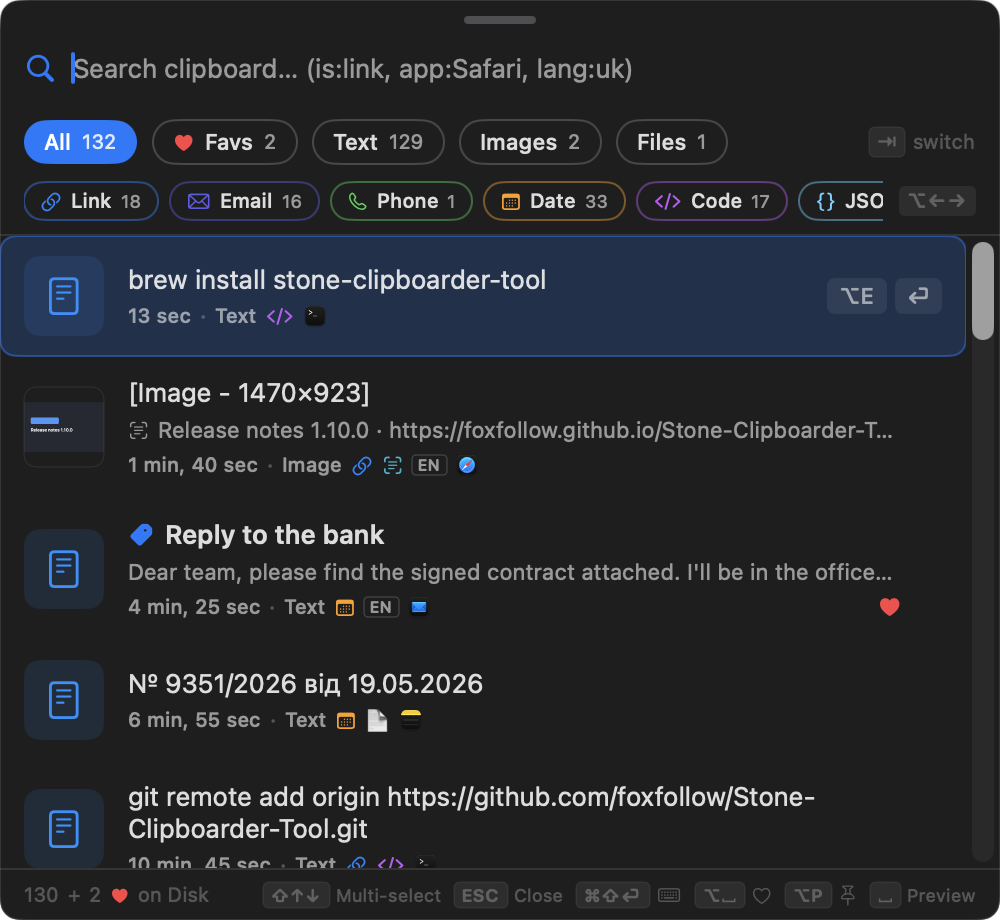
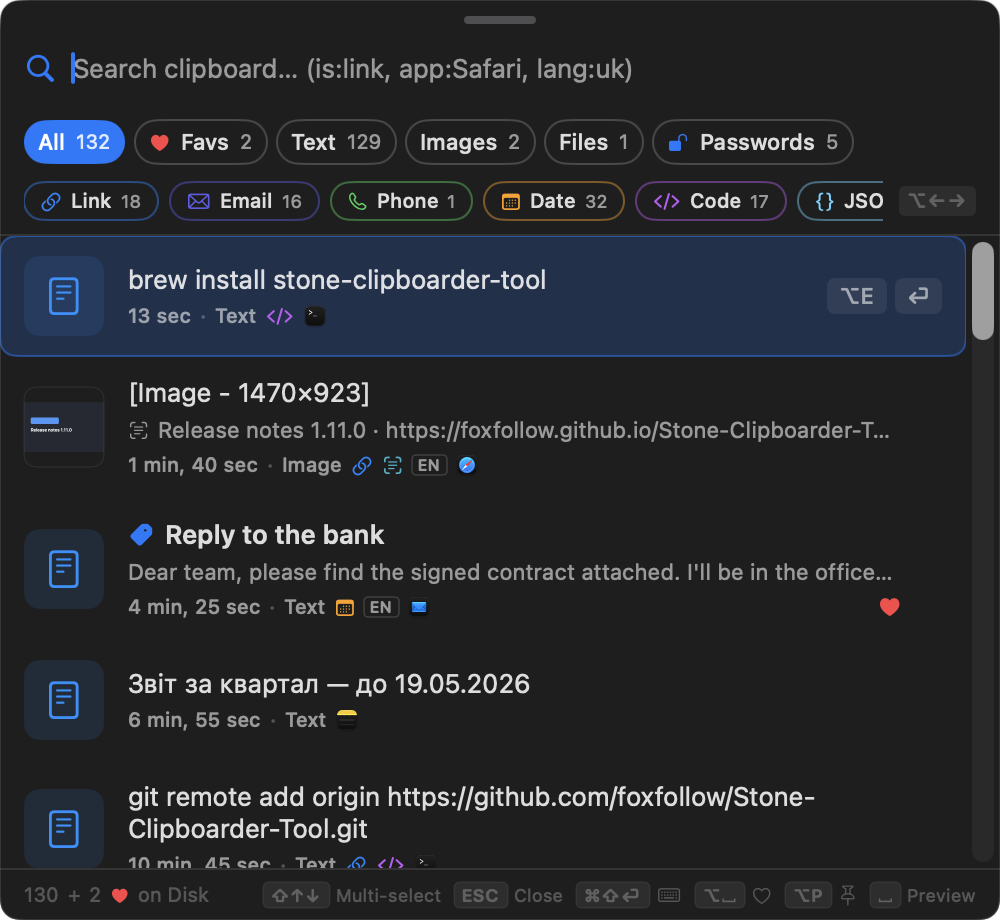
docs: new App Preview screenshots with a Passwords card
Re-rendered with `make screenshots` from the demo's made-up data: the
Quick Picker now shows the Passwords tab, Settings the grouped sidebar,
and a fifth card shows the Quick Picker on the Passwords tab with the
demo entries. The App Preview row is five cards wide on both landing
pages, and README's screenshot table gains the Passwords image.

Claude-Session: https://claude.ai/code/session_01Y3FT9tY4pPvpkEGiU6EVY5

diff --git a/docs/index-ua.html b/docs/index-ua.html
@@ -318,12 +318,12 @@
         </section>
 
         <!-- Screenshot Showcase -->
-        <section class="max-w-6xl mx-auto px-4 mb-32" id="screenshots">
+        <section class="max-w-7xl mx-auto px-4 mb-32" id="screenshots">
             <div class="reveal text-center mb-12">
                 <h2 class="section-title text-3xl font-bold mb-4">Огляд застосунку</h2>
                 <p class="section-sub text-gray-400">Ідеально вписується у ваш робочий процес macOS.</p>
             </div>
-            <div class="grid grid-cols-1 md:grid-cols-2 lg:grid-cols-4 gap-6 items-stretch">
+            <div class="grid grid-cols-1 md:grid-cols-2 lg:grid-cols-5 gap-6 items-stretch">
                 <div class="reveal">
                     <div class="screenshot-card h-full" onclick="openModal(this.querySelector('img'), 'Головне вікно')">
                         <img alt="Головне вікно" class="theme-image"
@@ -338,6 +338,14 @@
                             data-light-src="resources/index/sct-light-quickpicker.png"
                             data-dark-src="resources/index/sct-dark-quickpicker.png"
                             src="resources/index/sct-dark-quickpicker.png" />
+                    </div>
+                </div>
+                <div class="reveal" style="transition-delay: 150ms">
+                    <div class="screenshot-card h-full" onclick="openModal(this.querySelector('img'), 'Паролі')">
+                        <img alt="Паролі" class="theme-image"
+                            data-light-src="resources/index/sct-light-passwords.png"
+                            data-dark-src="resources/index/sct-dark-passwords.png"
+                            src="resources/index/sct-dark-passwords.png" />
                     </div>
                 </div>
                 <div class="reveal" style="transition-delay: 200ms">

diff --git a/docs/index.html b/docs/index.html
@@ -338,12 +338,12 @@
         </section>
 
         <!-- Screenshot Showcase -->
-        <section class="max-w-6xl mx-auto px-4 mb-32" id="screenshots">
+        <section class="max-w-7xl mx-auto px-4 mb-32" id="screenshots">
             <div class="reveal text-center mb-12">
                 <h2 class="section-title text-3xl font-bold mb-4">App Preview</h2>
                 <p class="section-sub text-gray-400">Fits perfectly into your macOS workflow.</p>
             </div>
-            <div class="grid grid-cols-1 md:grid-cols-2 lg:grid-cols-4 gap-6 items-stretch">
+            <div class="grid grid-cols-1 md:grid-cols-2 lg:grid-cols-5 gap-6 items-stretch">
                 <div class="reveal">
                     <div class="screenshot-card h-full" onclick="openModal(this.querySelector('img'), 'Main Window')">
                         <img alt="Main Window" class="theme-image"
@@ -358,6 +358,14 @@
                             data-light-src="resources/index/sct-light-quickpicker.png"
                             data-dark-src="resources/index/sct-dark-quickpicker.png"
                             src="resources/index/sct-dark-quickpicker.png" />
+                    </div>
+                </div>
+                <div class="reveal" style="transition-delay: 150ms">
+                    <div class="screenshot-card h-full" onclick="openModal(this.querySelector('img'), 'Passwords')">
+                        <img alt="Passwords" class="theme-image"
+                            data-light-src="resources/index/sct-light-passwords.png"
+                            data-dark-src="resources/index/sct-dark-passwords.png"
+                            src="resources/index/sct-dark-passwords.png" />
                     </div>
                 </div>
                 <div class="reveal" style="transition-delay: 200ms">

diff --git a/README.md b/README.md
@@ -100,6 +100,10 @@ xattr -d com.apple.quarantine /Applications/StoneClipboarderTool.app
       <sub><b>Quick Picker</b><br>Spotlight-like access (⌃⌥Space)</sub>
     </td>
     <td align="center">
+      <img src="docs/resources/index/sct-dark-passwords.png" width="250" alt="Passwords"><br>
+      <sub><b>Passwords</b><br>Encrypted, unlocked with Touch ID</sub>
+    </td>
+    <td align="center">
       <img src="docs/resources/index/sct-dark-menubar.png" width="250" alt="Menu Bar"><br>
       <sub><b>Menu Bar</b><br>Quick access to recent items</sub>
     </td>
